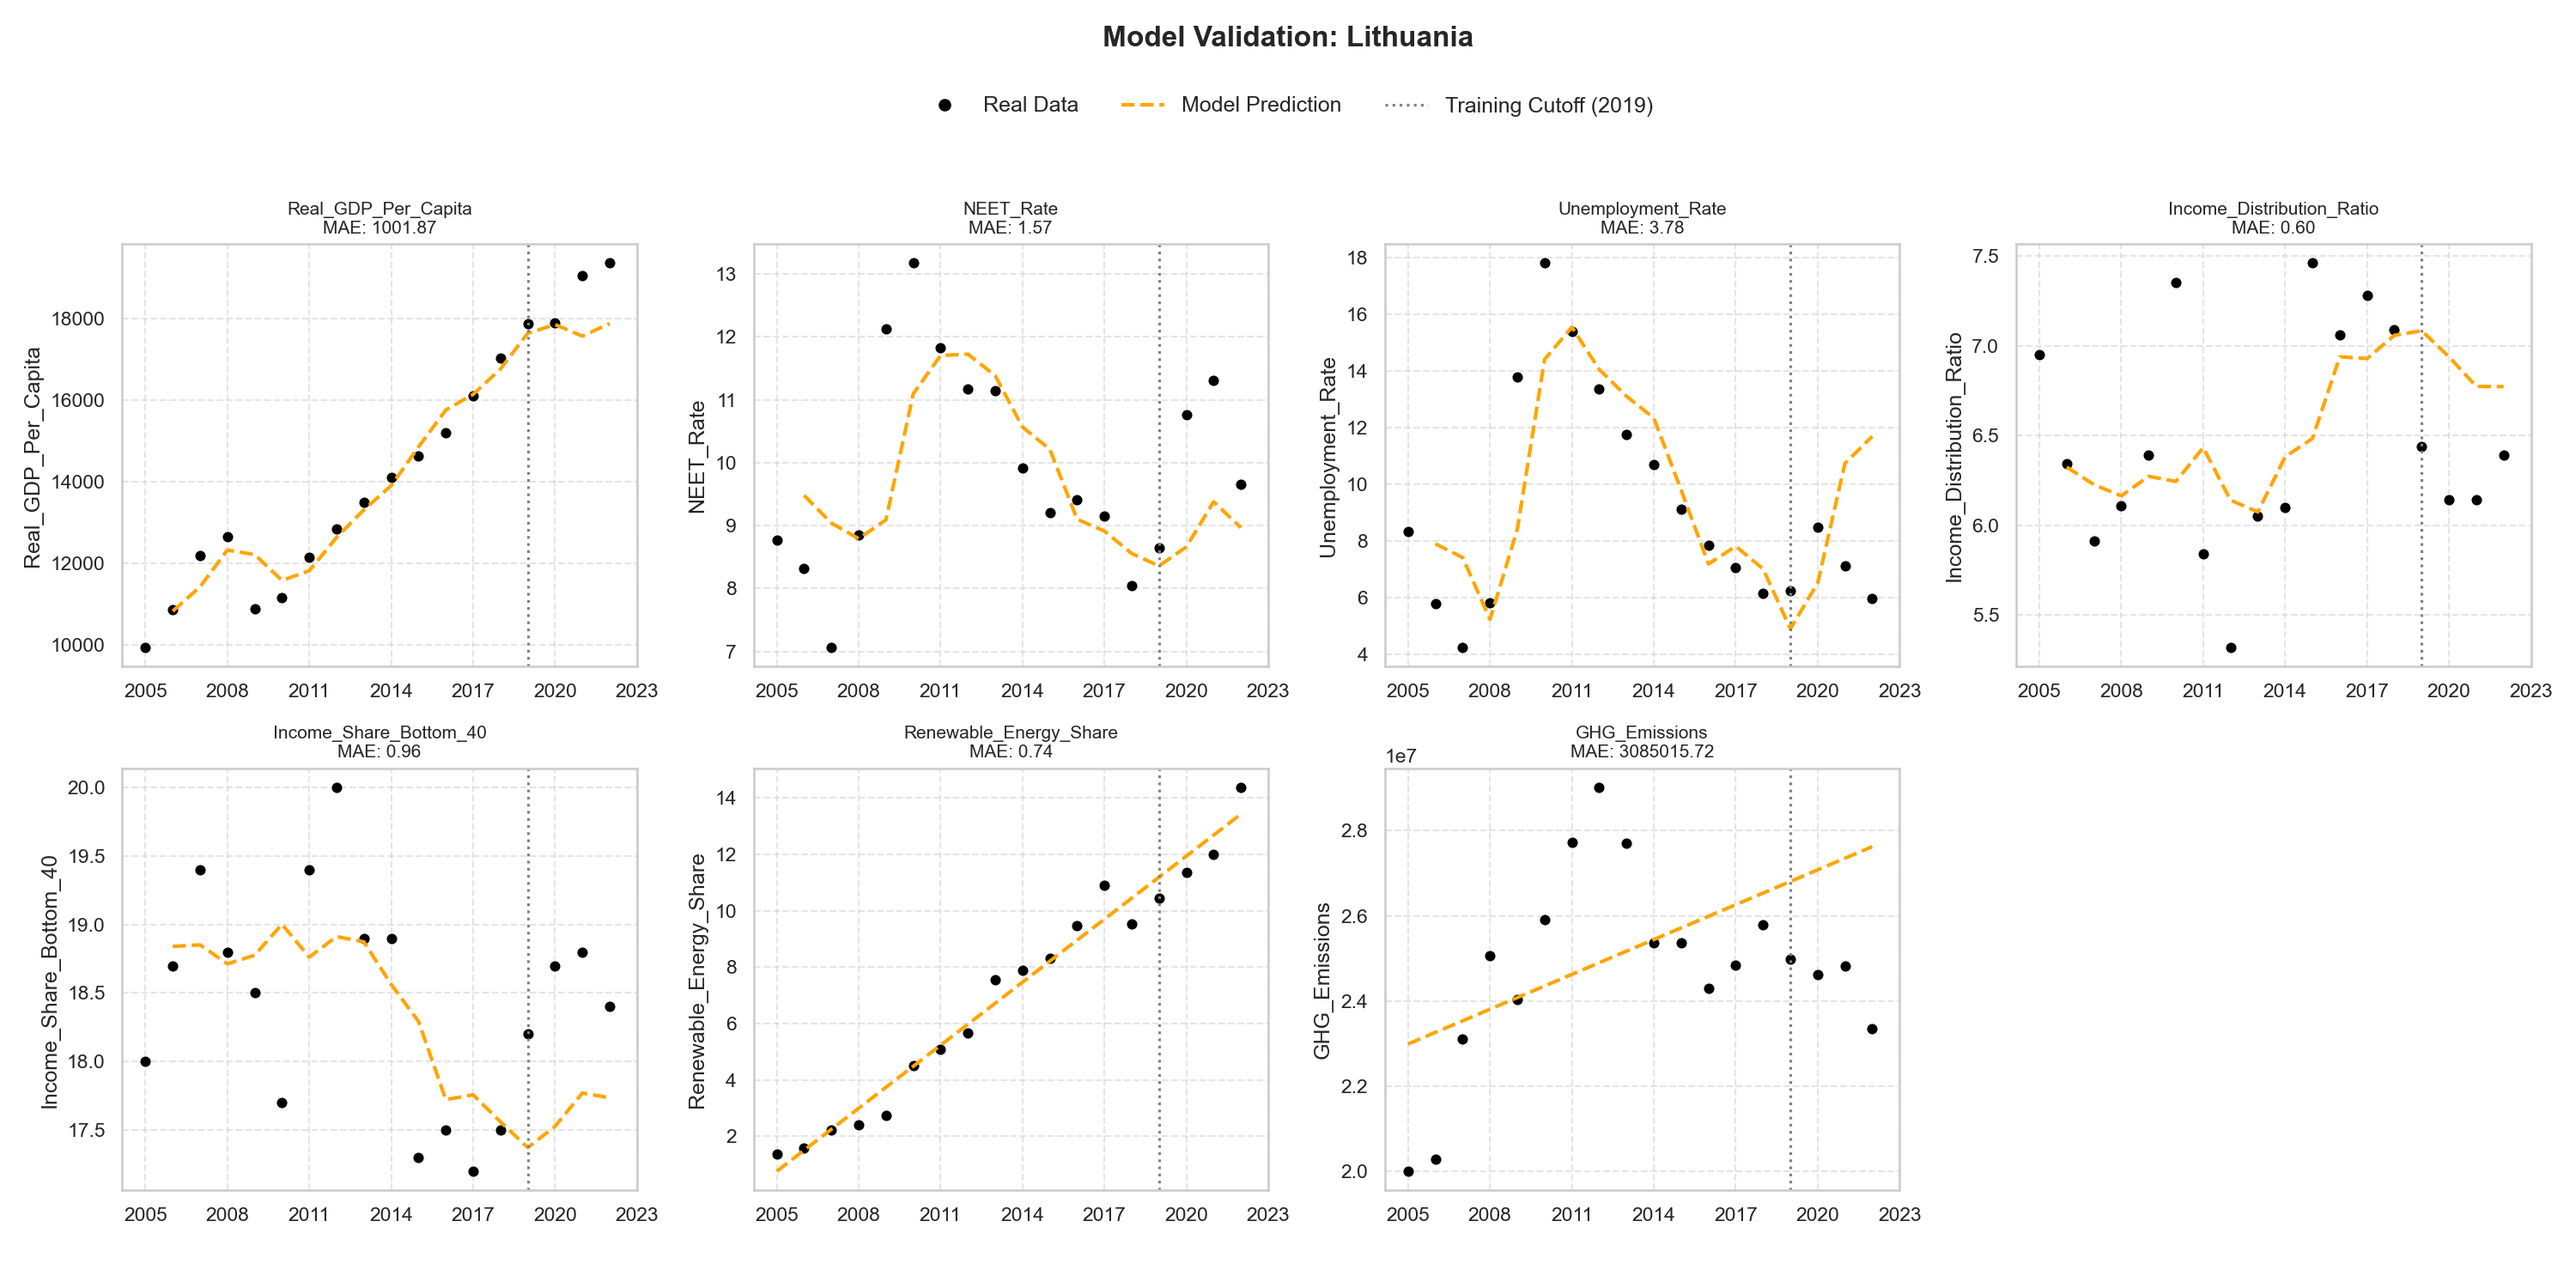
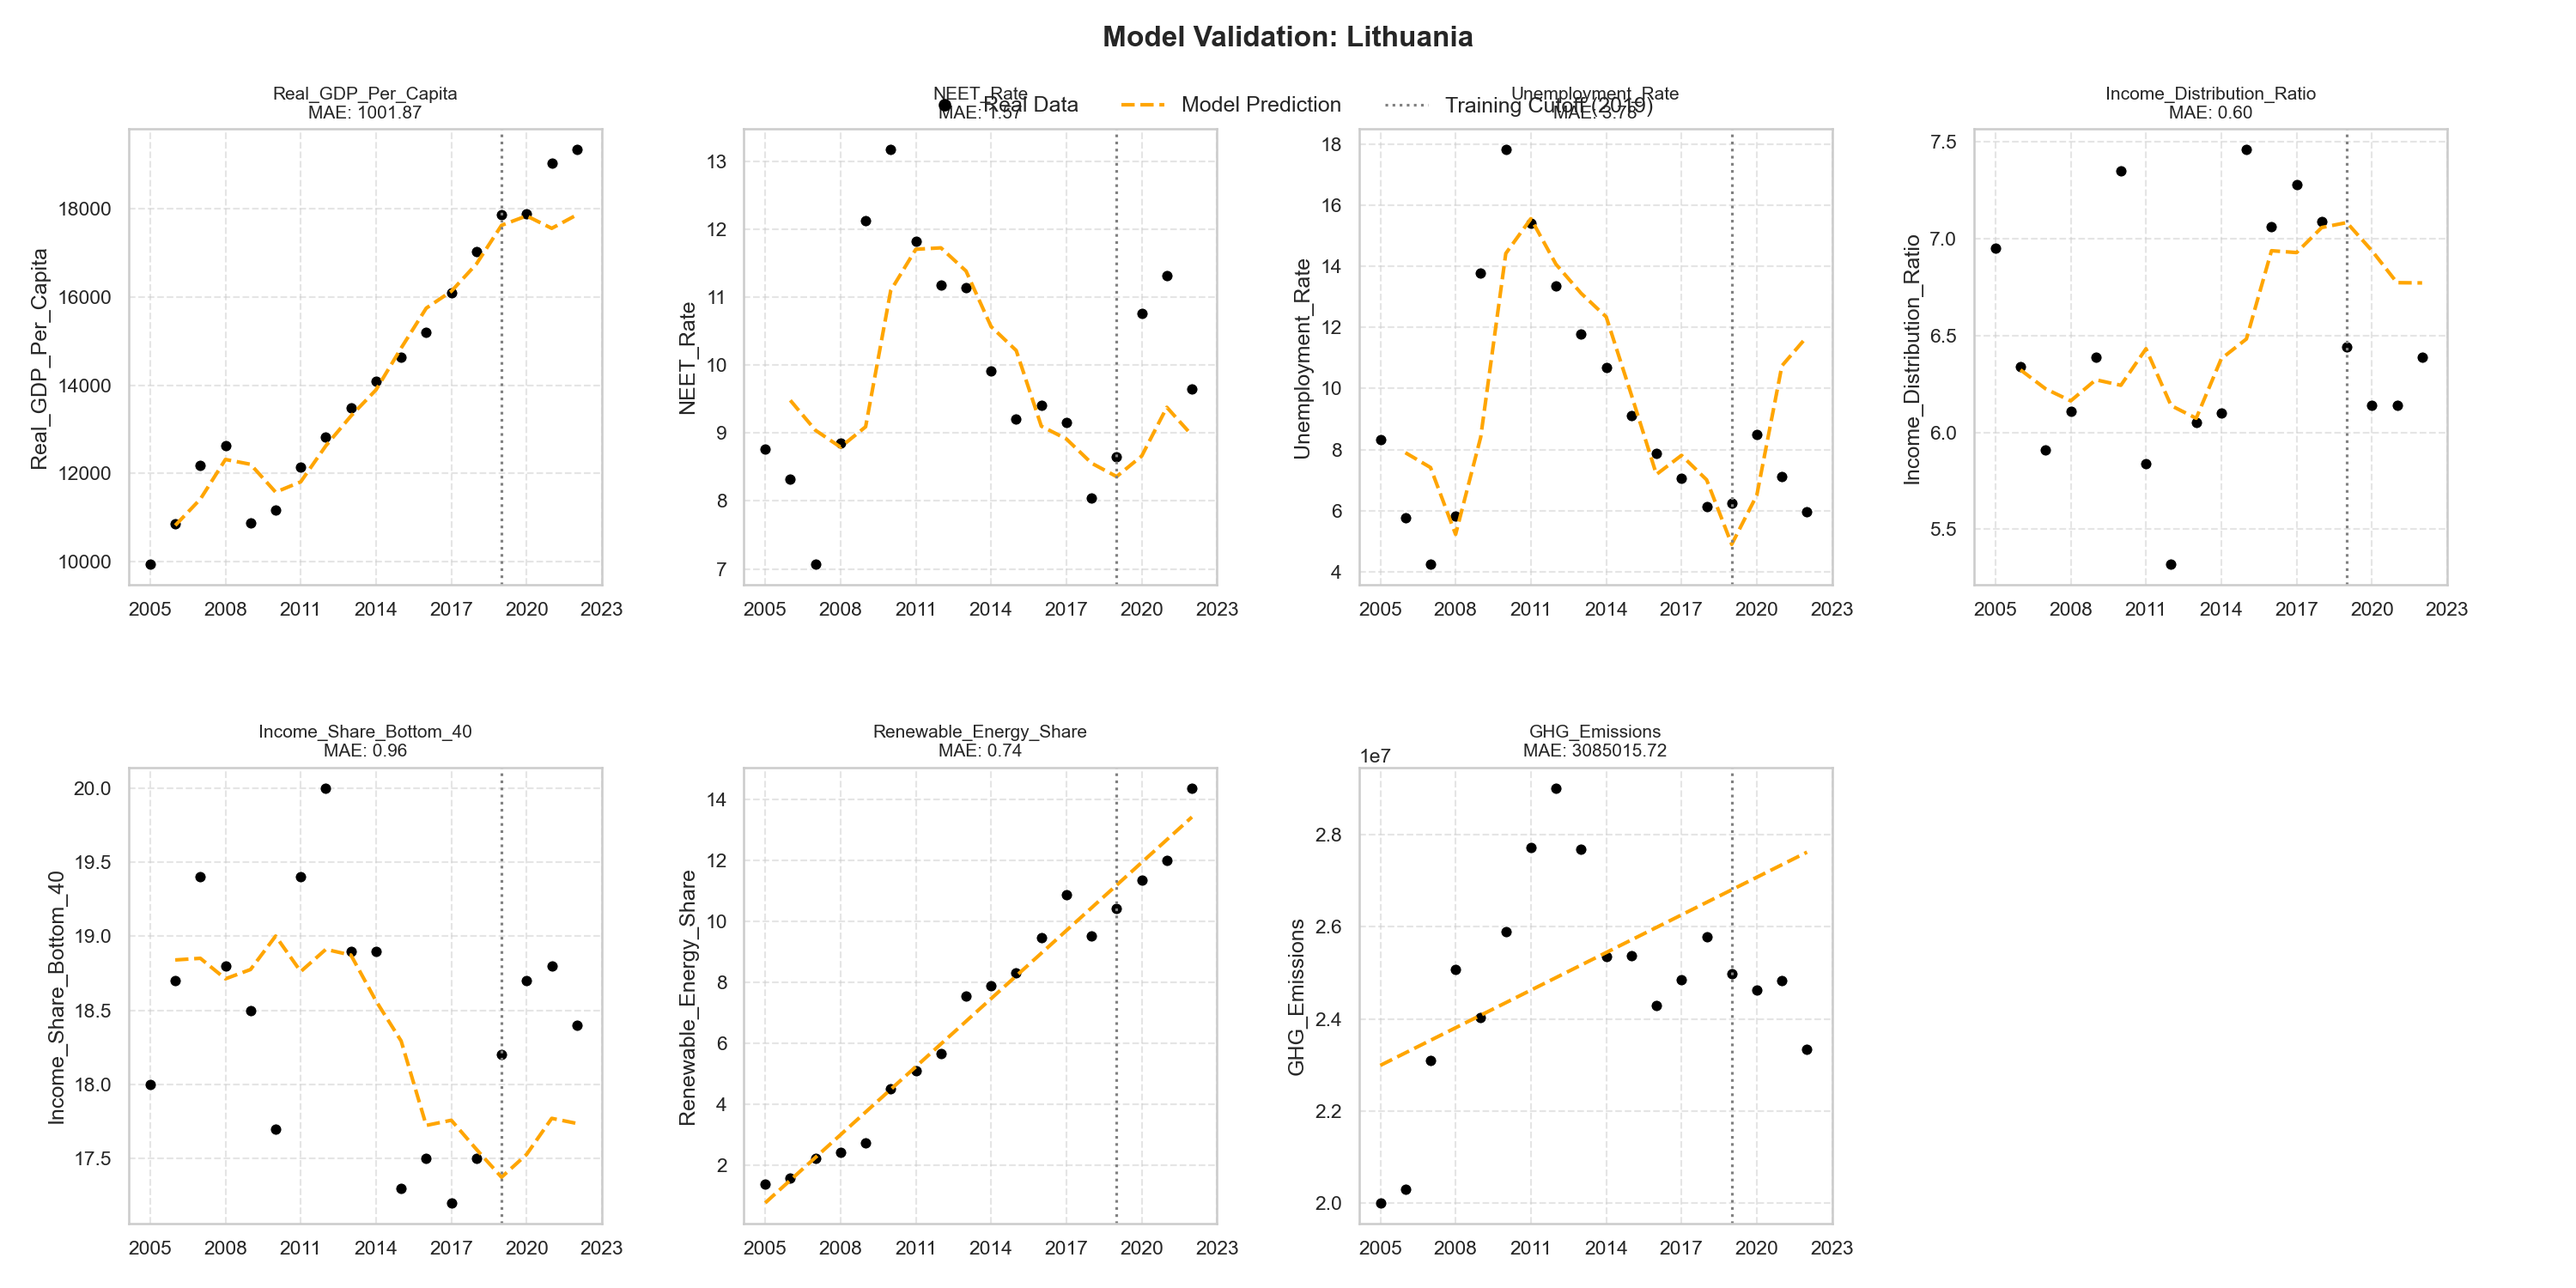
fix warning message

diff --git a/src/model_validation.py b/src/model_validation.py
@@ -86,8 +86,8 @@ for country in countries:
             # For GHG and Renewable Energy, I use a simple model based only on time (the year) because the other variables were not helpful
             feature_cols = ['Year']
             # For this simple model, I don't need the lagged data
-            train_simple = df[df['Country'] == country][df['Year'] <= CUTOFF_YEAR]
-            test_simple = df[df['Country'] == country][df['Year'] > CUTOFF_YEAR]
+            train_simple = df[(df['Country'] == country) & (df['Year'] <= CUTOFF_YEAR)]
+            test_simple = df[(df['Country'] == country) & (df['Year'] > CUTOFF_YEAR)]
             
             X_train = train_simple[feature_cols]
             y_train = train_simple[col]
@@ -148,7 +148,9 @@ for country in countries:
     fig.legend(handles=legend_elements, loc='upper center', bbox_to_anchor=(0.5, 0.94), 
                ncol=3, frameon=False, fontsize=12)
     
-    plt.tight_layout(rect=[0, 0.03, 1, 0.90])
+    # I replace tight_layout with manual adjustment to avoid hanging/freezing issues in Python 3.13
+    # plt.tight_layout(rect=[0, 0.03, 1, 0.90])
+    plt.subplots_adjust(top=0.90, bottom=0.05, left=0.05, right=0.95, hspace=0.4, wspace=0.3)
     
     filename = f"{output_dir}/{country}_validation.png"
     plt.savefig(filename, dpi=150)
